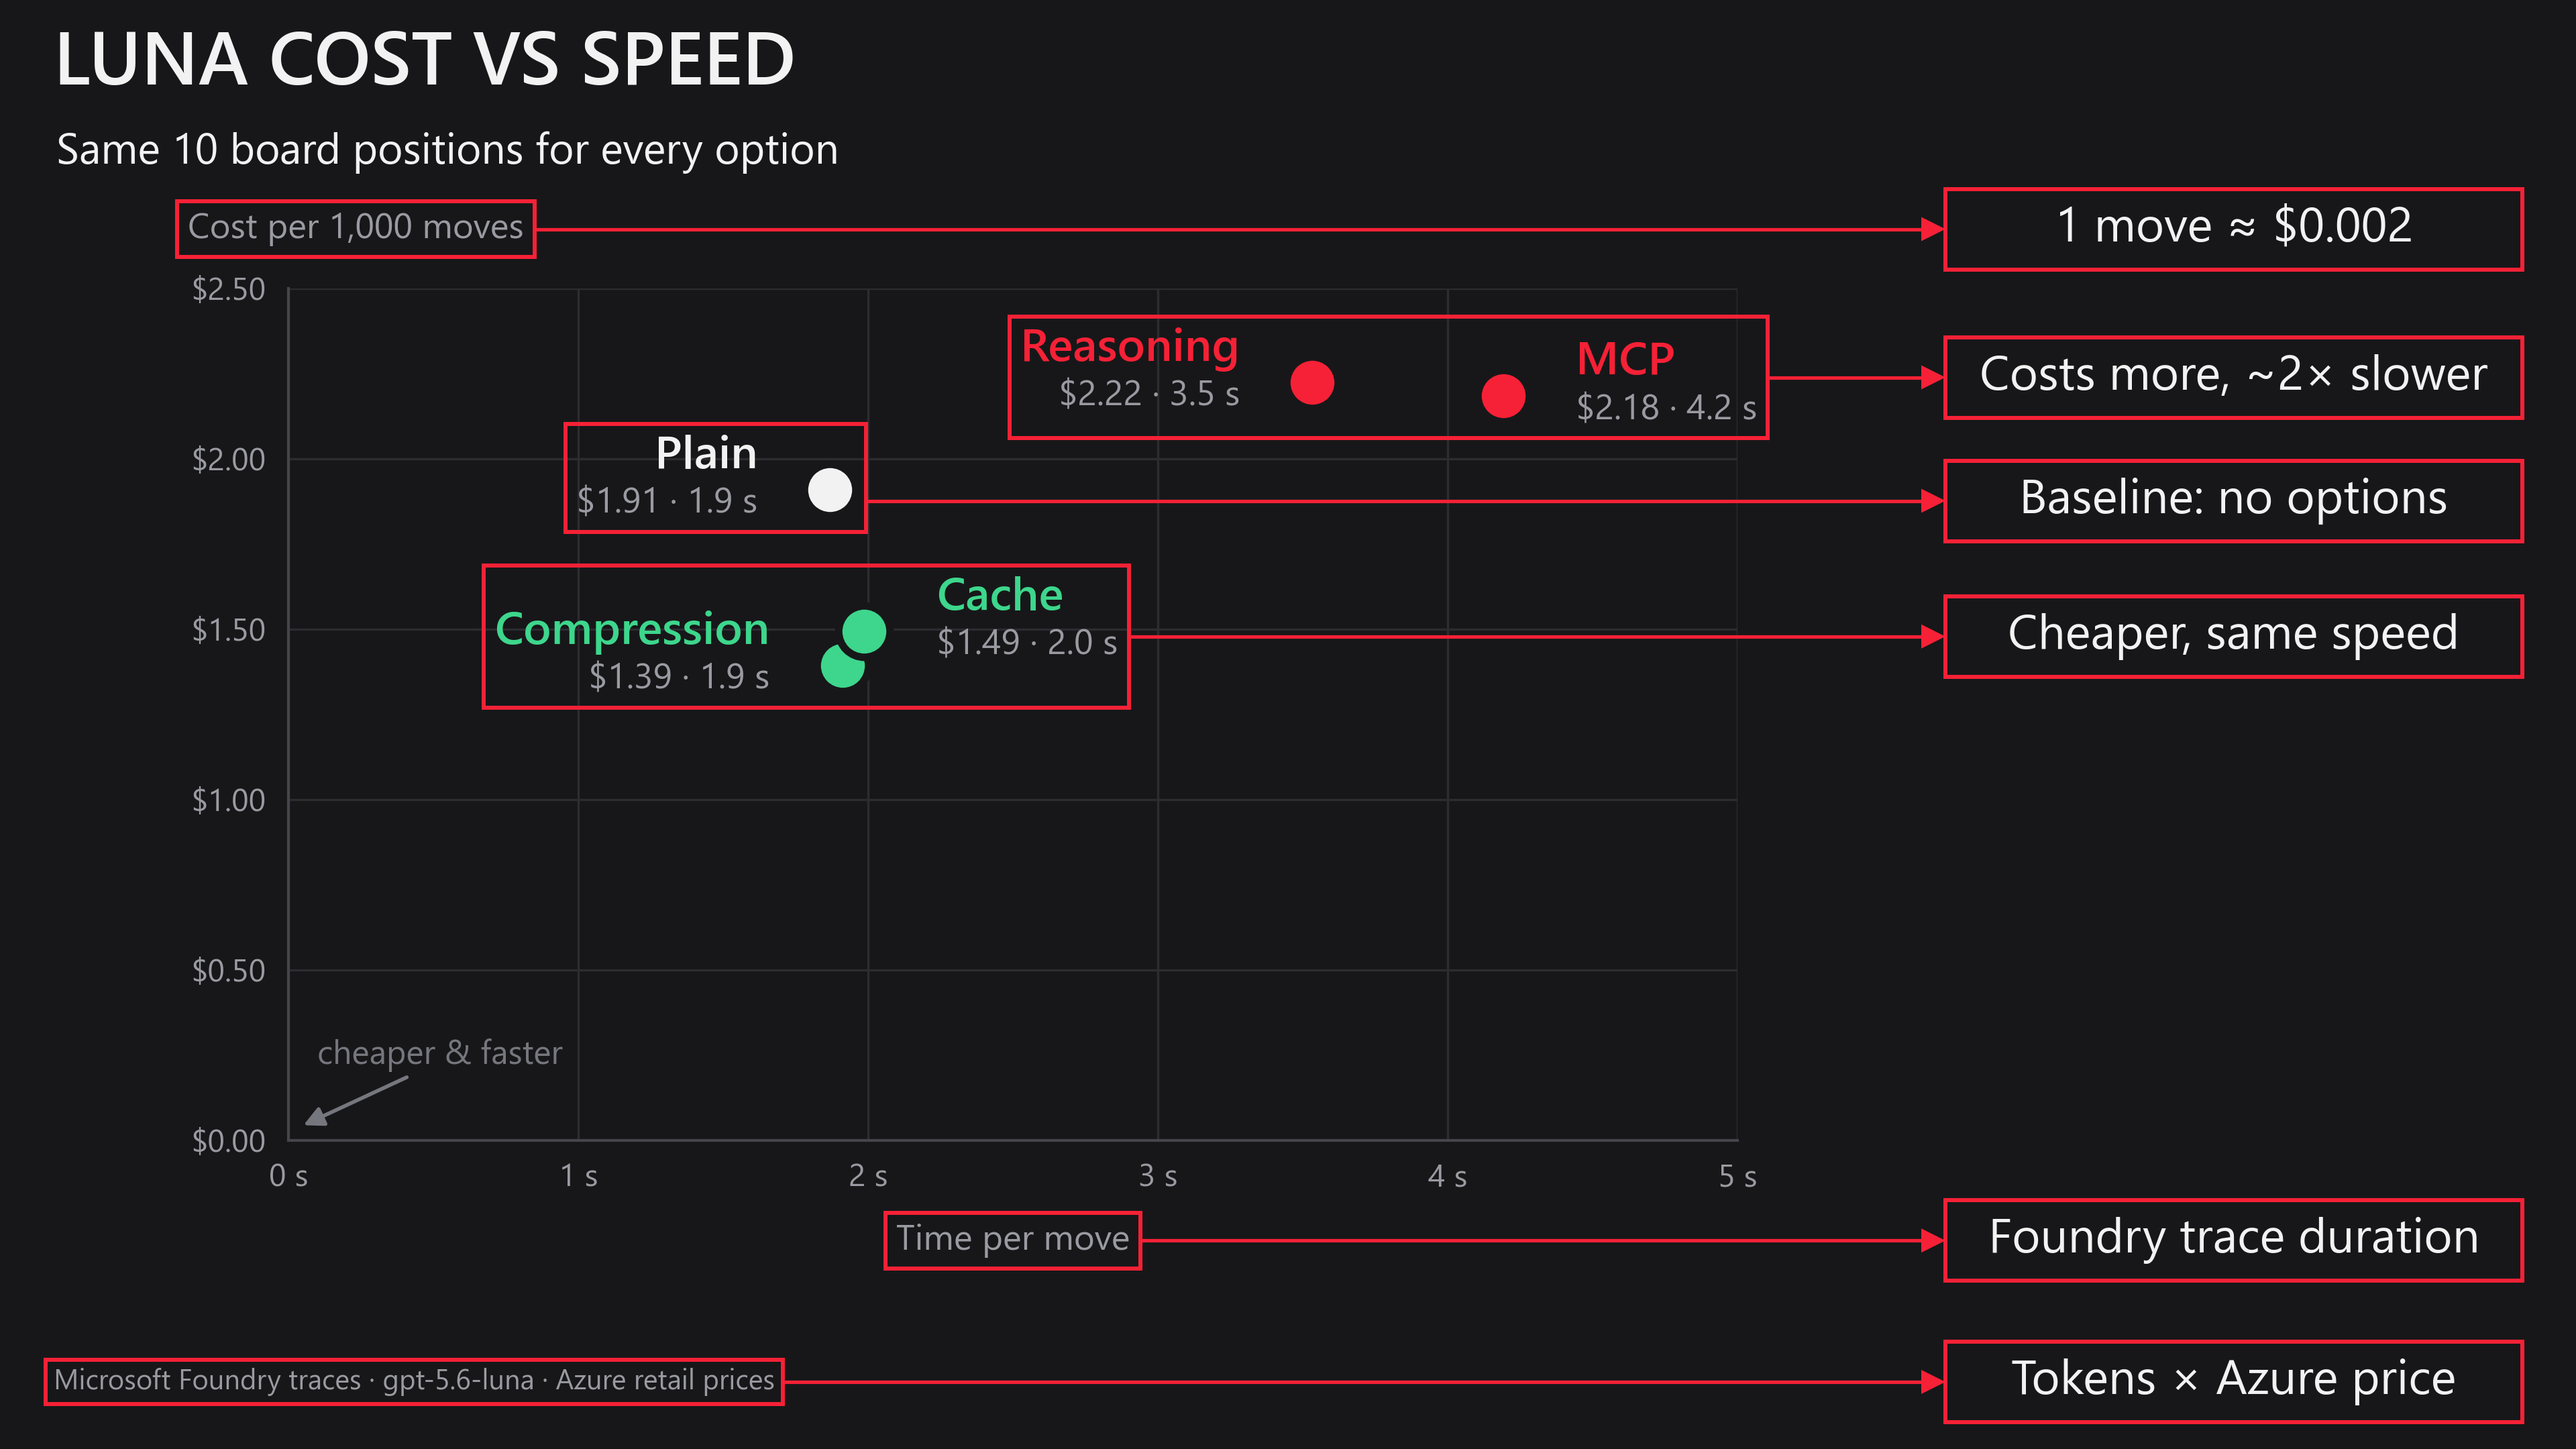
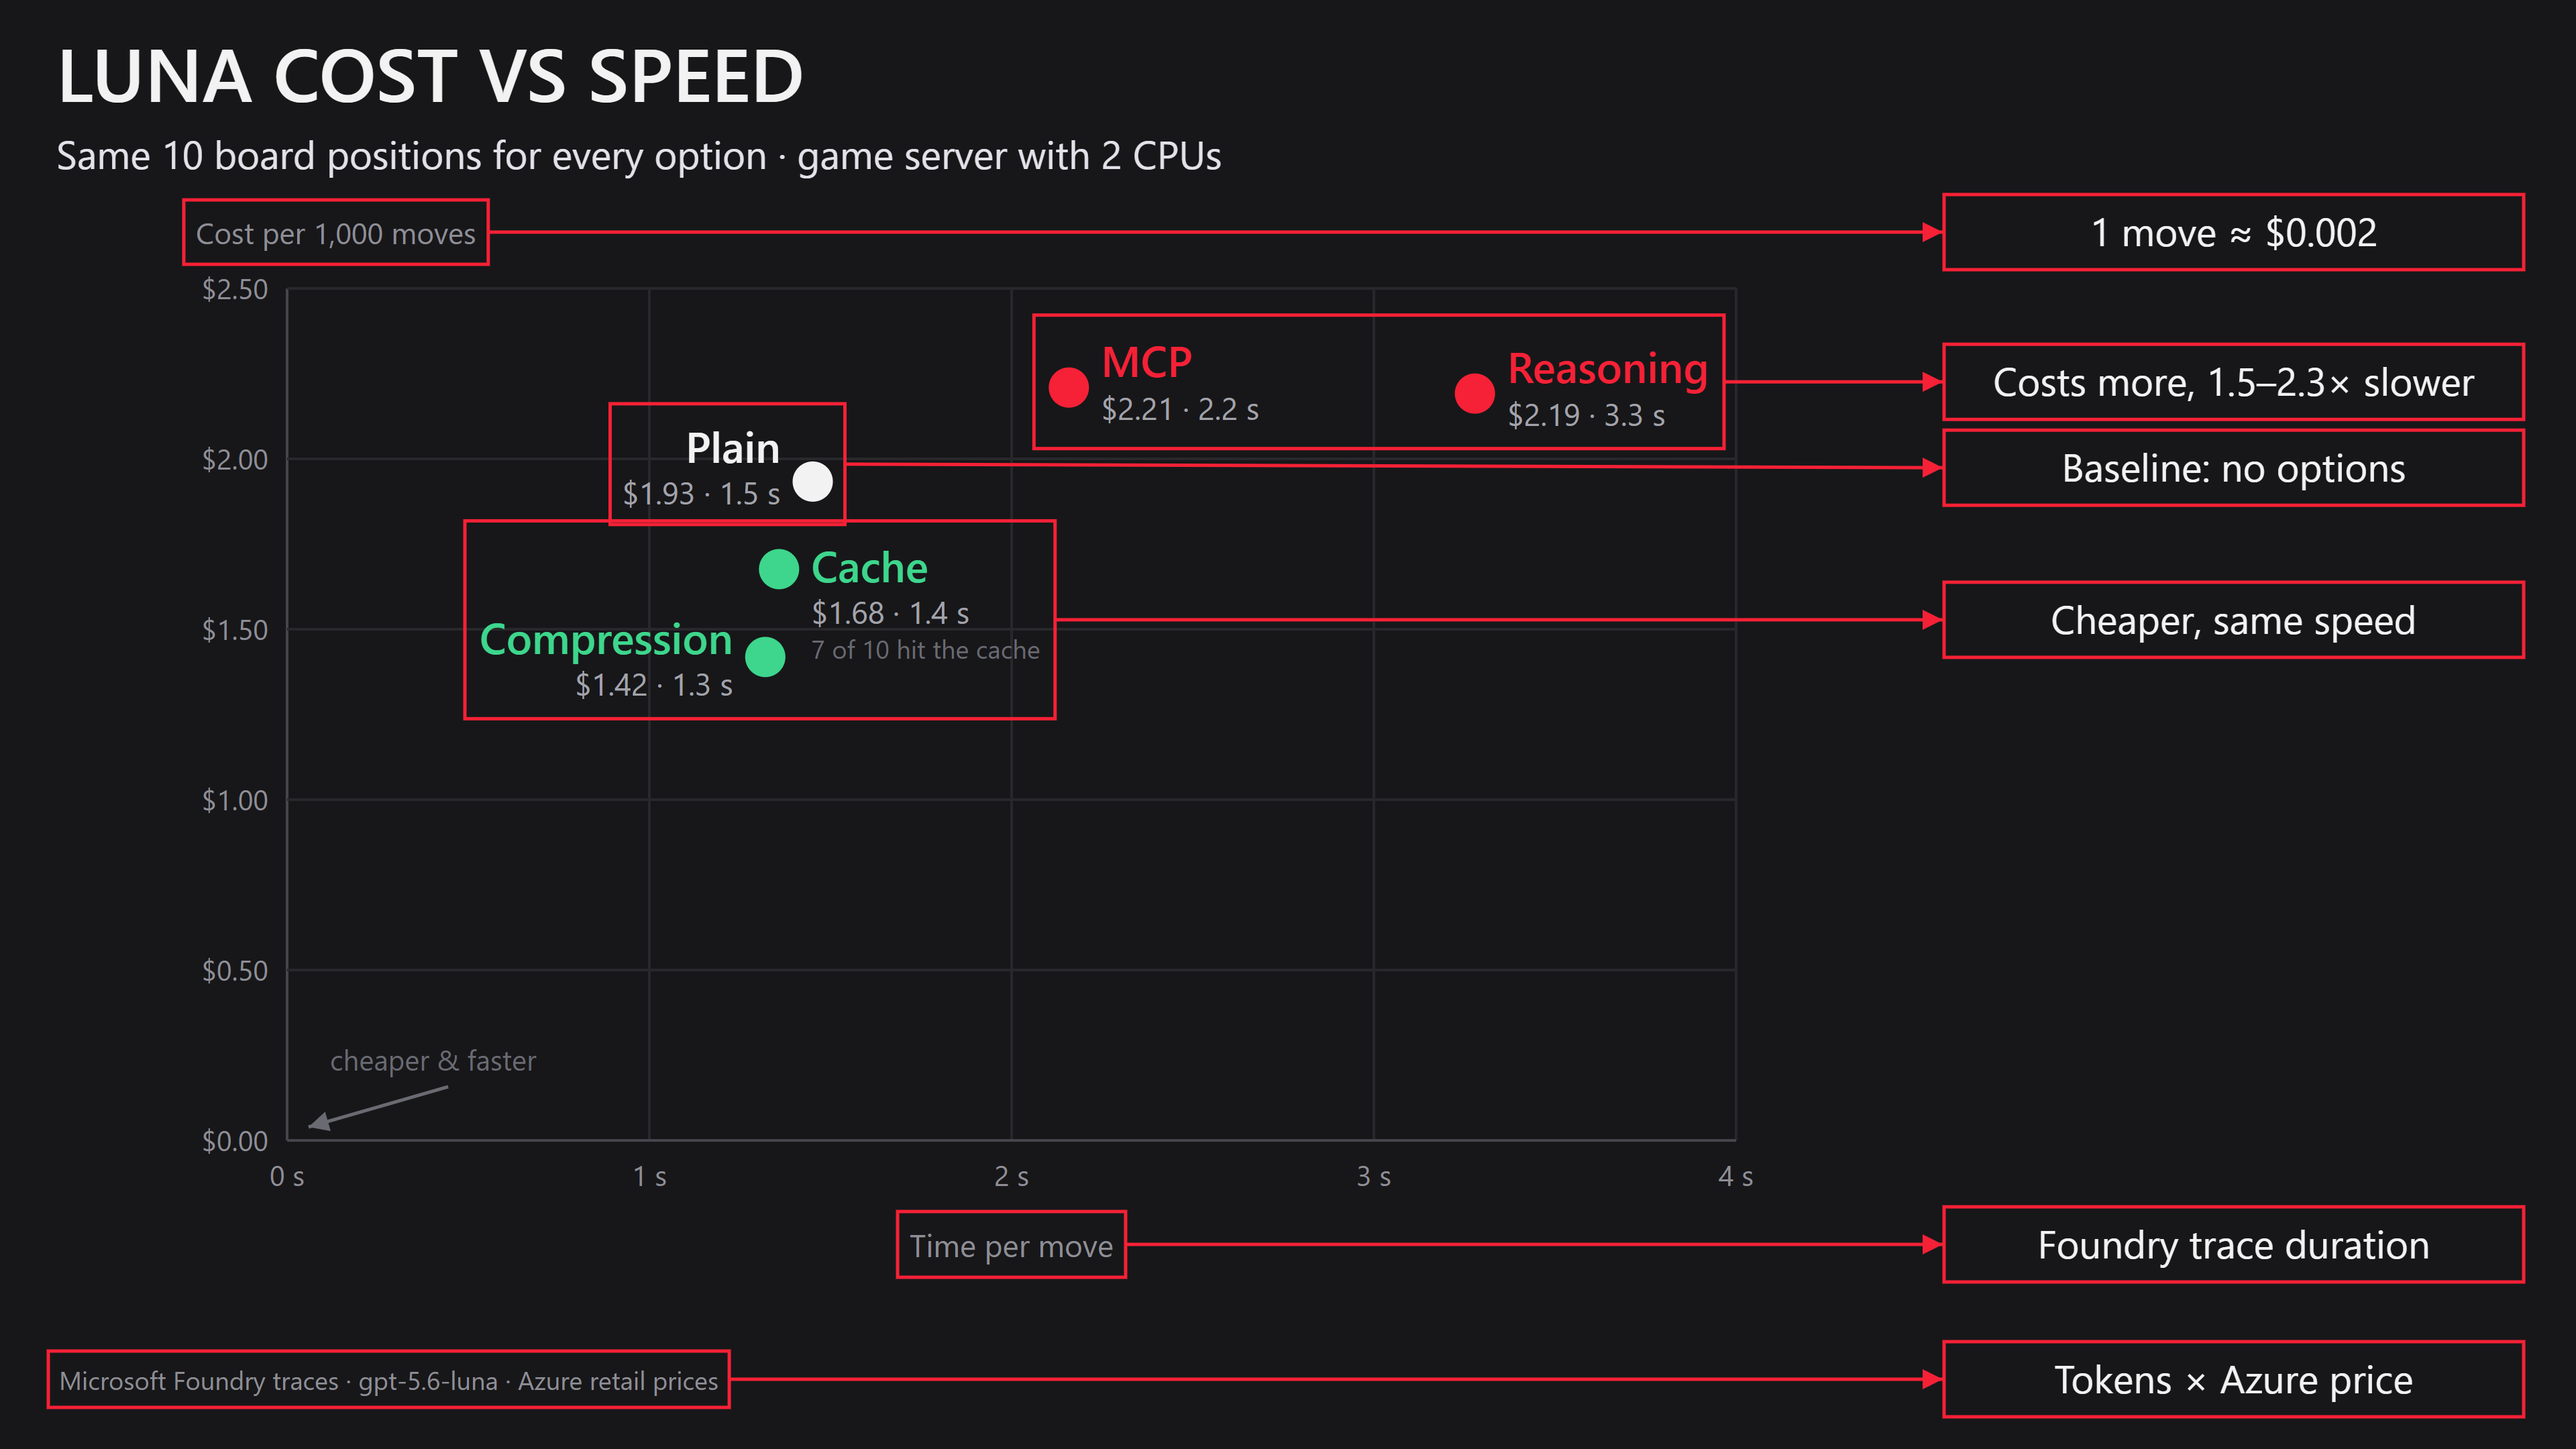
docs: refresh Luna cost, MCP and capacity charts for the 2 CPU server
Re-measured on the live app after moving the container to 2 CPU / 4 GiB:

- Cost vs speed: 50 Foundry traces, five options on the same 10 board
  positions. MCP moves fall from 4.2 s to 2.2 s, mostly because the MCP
  tool step drops from 2.1 s to 0.5 s. 7 of 10 Cache moves hit the cache.
- MCP breakdown: $2.21 per 1,000 moves; tool 0.5 s, model 1.4 s, app 0.2 s.
- Capacity: Plain-move bots next to Azure (1, 2, 4) and in Johannesburg
  (1, 2, 4, 8). About 311K vs 246K tokens per minute per player; the
  8 calls per second cap fits about 14 nearby players or 19 from
  Johannesburg. Server CPU stayed under 10% with 8 players.

The README also records the container size and why the app stays at
one replica.

diff --git a/README.md b/README.md
@@ -83,13 +83,13 @@ Options default off, are disabled while Luna is off, and affect the next request
 
 ### Cost and speed
 
-[![Annotated cost vs speed per Luna move: one move costs about $0.002. Compression and Cache cost about a quarter less than Plain at the same speed; Reasoning and MCP cost about 15% more and are about twice as slow.](docs/images/luna-cost-vs-speed-explained.png)](docs/images/luna-cost-vs-speed-explained.png)
+[![Annotated cost vs speed per Luna move on the 2 CPU game server: one move costs about $0.002. Compression costs about a quarter less than Plain and Cache about an eighth less, at about the same speed; Reasoning and MCP cost about 14% more and are 2.3 and 1.5 times slower.](docs/images/luna-cost-vs-speed-explained.png)](docs/images/luna-cost-vs-speed-explained.png)
 
-Measured from 50 [Foundry traces](#tracing) in October 2026, with each option answering the same 10 board positions at Azure retail prices. All Cache moves were cache hits. Times vary with model load.
+Measured from 50 [Foundry traces](#tracing) on the 2 CPU game server in October 2026, with each option answering the same 10 board positions at Azure retail prices. 7 of 10 Cache moves were cache hits; hits are not guaranteed. Times vary with model load.
 
-[![Where MCP's $2.18 per 1,000 moves goes: game state $1.42, instructions $0.45, MCP lookahead $0.27, and Luna's reply $0.04. The MCP tool adds 2.1 seconds per move.](docs/images/luna-mcp-cost-breakdown.png)](docs/images/luna-mcp-cost-breakdown.png)
+[![Where MCP's $2.21 per 1,000 moves goes: game state $1.44, instructions $0.46, MCP lookahead $0.27, and Luna's reply $0.04. The MCP tool adds 0.5 seconds per move, down from 2.1 seconds on 0.5 CPU.](docs/images/luna-mcp-cost-breakdown.png)](docs/images/luna-mcp-cost-breakdown.png)
 
-MCP adds 1,362 lookahead tokens per move (+14% cost) and 2.1 s of tool time. Costs and savings are estimates, not invoices; Cache can lower price, not allowance consumption.
+MCP adds 1,375 lookahead tokens per move (+14% cost) and 0.5 s of tool time, down from 2.1 s when the container had 0.5 CPU. Costs and savings are estimates, not invoices; Cache can lower price, not allowance consumption.
 
 ### Limits and capacity
 
@@ -98,9 +98,9 @@ MCP adds 1,362 lookahead tokens per move (+14% cost) and 2.1 s of tool time. Cos
 - **Throughput:** the server admits up to 80% of the tokens per minute Azure reports in its rate-limit headers, at most 8 Luna calls per second, and at most 4 MCP lookups at a time.
 - **Fallback:** manual play remains available when AI limits are reached.
 
-[![How many Luna players at once: each Luna player uses about 298K tokens per minute and players add up. 6,950K tokens per minute of Azure capacity fits about 23 players, about 17 after the game's 28% safety margin, while the game server's 8 Luna calls per second fit about 15.](docs/images/luna-capacity-scaling.png)](docs/images/luna-capacity-scaling.png)
+[![How many Luna players at once: a Luna player next to Azure uses about 311K tokens per minute, one in Johannesburg about 246K, and players add up. 6,950K tokens per minute of Azure capacity fits about 22 nearby players, about 16 after the game's 28% safety margin, while the game server's 8 Luna calls per second fit about 14.](docs/images/luna-capacity-scaling.png)](docs/images/luna-capacity-scaling.png)
 
-Measured with 1-4 bot players (Plain moves, 40 seconds each) in October 2026. To size capacity for an audience, allow about 415K tokens per minute per simultaneous Luna player: about 300K used plus the 28% safety margin (20% spare and the extra each move reserves). The 8 calls per second cap fits about 15 players.
+Measured in October 2026 with bot players making Plain moves for one minute per step: 1, 2 and 4 bots inside the app's container, next to Azure, and 1, 2, 4 and 8 bots in Johannesburg, about 230 ms away. Each move waits for two network round trips, so nearby players move faster and use more tokens per minute. To size capacity for an audience near East US 2, allow about 430K tokens per minute per simultaneous Luna player: about 310K used plus the 28% safety margin (20% spare and the extra each move reserves). The 8 calls per second cap fits about 14 nearby players or about 19 in Johannesburg. With 8 players the server used under 10% of its 2 CPUs, while Luna's replies slowed by about 16%.
 
 ## Architecture
 
@@ -113,9 +113,9 @@ Tokenfall is deliberately a small TypeScript application that shows the full pat
 | Part | Built with | Role |
 | --- | --- | --- |
 | Browser | React 19, Vite, TypeScript | Draws the board, runs the [shared game engine](shared/game.ts) at 60 FPS, and talks to the server over Socket.IO. |
-| Game server | Node.js 24, Express 5, Socket.IO 4 | Runs the `.ts` files directly, with no server build. Serves the web app, replays every input to verify scores, and admits Luna requests ([room](server/room.ts), [model gateway](server/model.ts)). |
+| Game server | Node.js 24, Express 5, Socket.IO 4 | One Container Apps replica with 2 CPUs and 4 GiB. Runs the `.ts` files directly, with no server build. Serves the web app, replays every input to verify scores, and admits Luna requests ([room](server/room.ts), [model gateway](server/model.ts)). |
 | Local MCP server | MCP TypeScript SDK, stdio | A child process in the same container, not a separate service. Its read-only `analyze_future_moves` tool simulates the next two placements and never plays a move ([client](server/mcp.ts), [server](server/mcp-server.ts)). |
-| SQLite | `node:sqlite` on Azure Files | Stores players, scores, sentences, allowances, and usage in `/data/tokenfall.sqlite`. SQLite has one writer, so the app runs one replica. |
+| SQLite | `node:sqlite` on Azure Files | Stores players, scores, sentences, allowances, and usage in `/data/tokenfall.sqlite`. SQLite has one writer, so the app runs one replica: a test with three replicas crashed all of them and corrupted the database indexes. |
 | Managed identity | Microsoft Entra ID | How the app signs in to Azure: `AcrPull` for the image, `Cognitive Services OpenAI User` for Luna, and `Monitoring Metrics Publisher` for traces. Foundry and Application Insights have key auth turned off. |
 | Microsoft Foundry | `gpt-5.6-luna`, GlobalStandard | Picks one of the legal placements the server sends, as strict JSON. |
 | Application Insights | Azure Monitor, OpenTelemetry | Keeps one trace per Luna move for 30 days in Log Analytics, for the Foundry trace view. |
